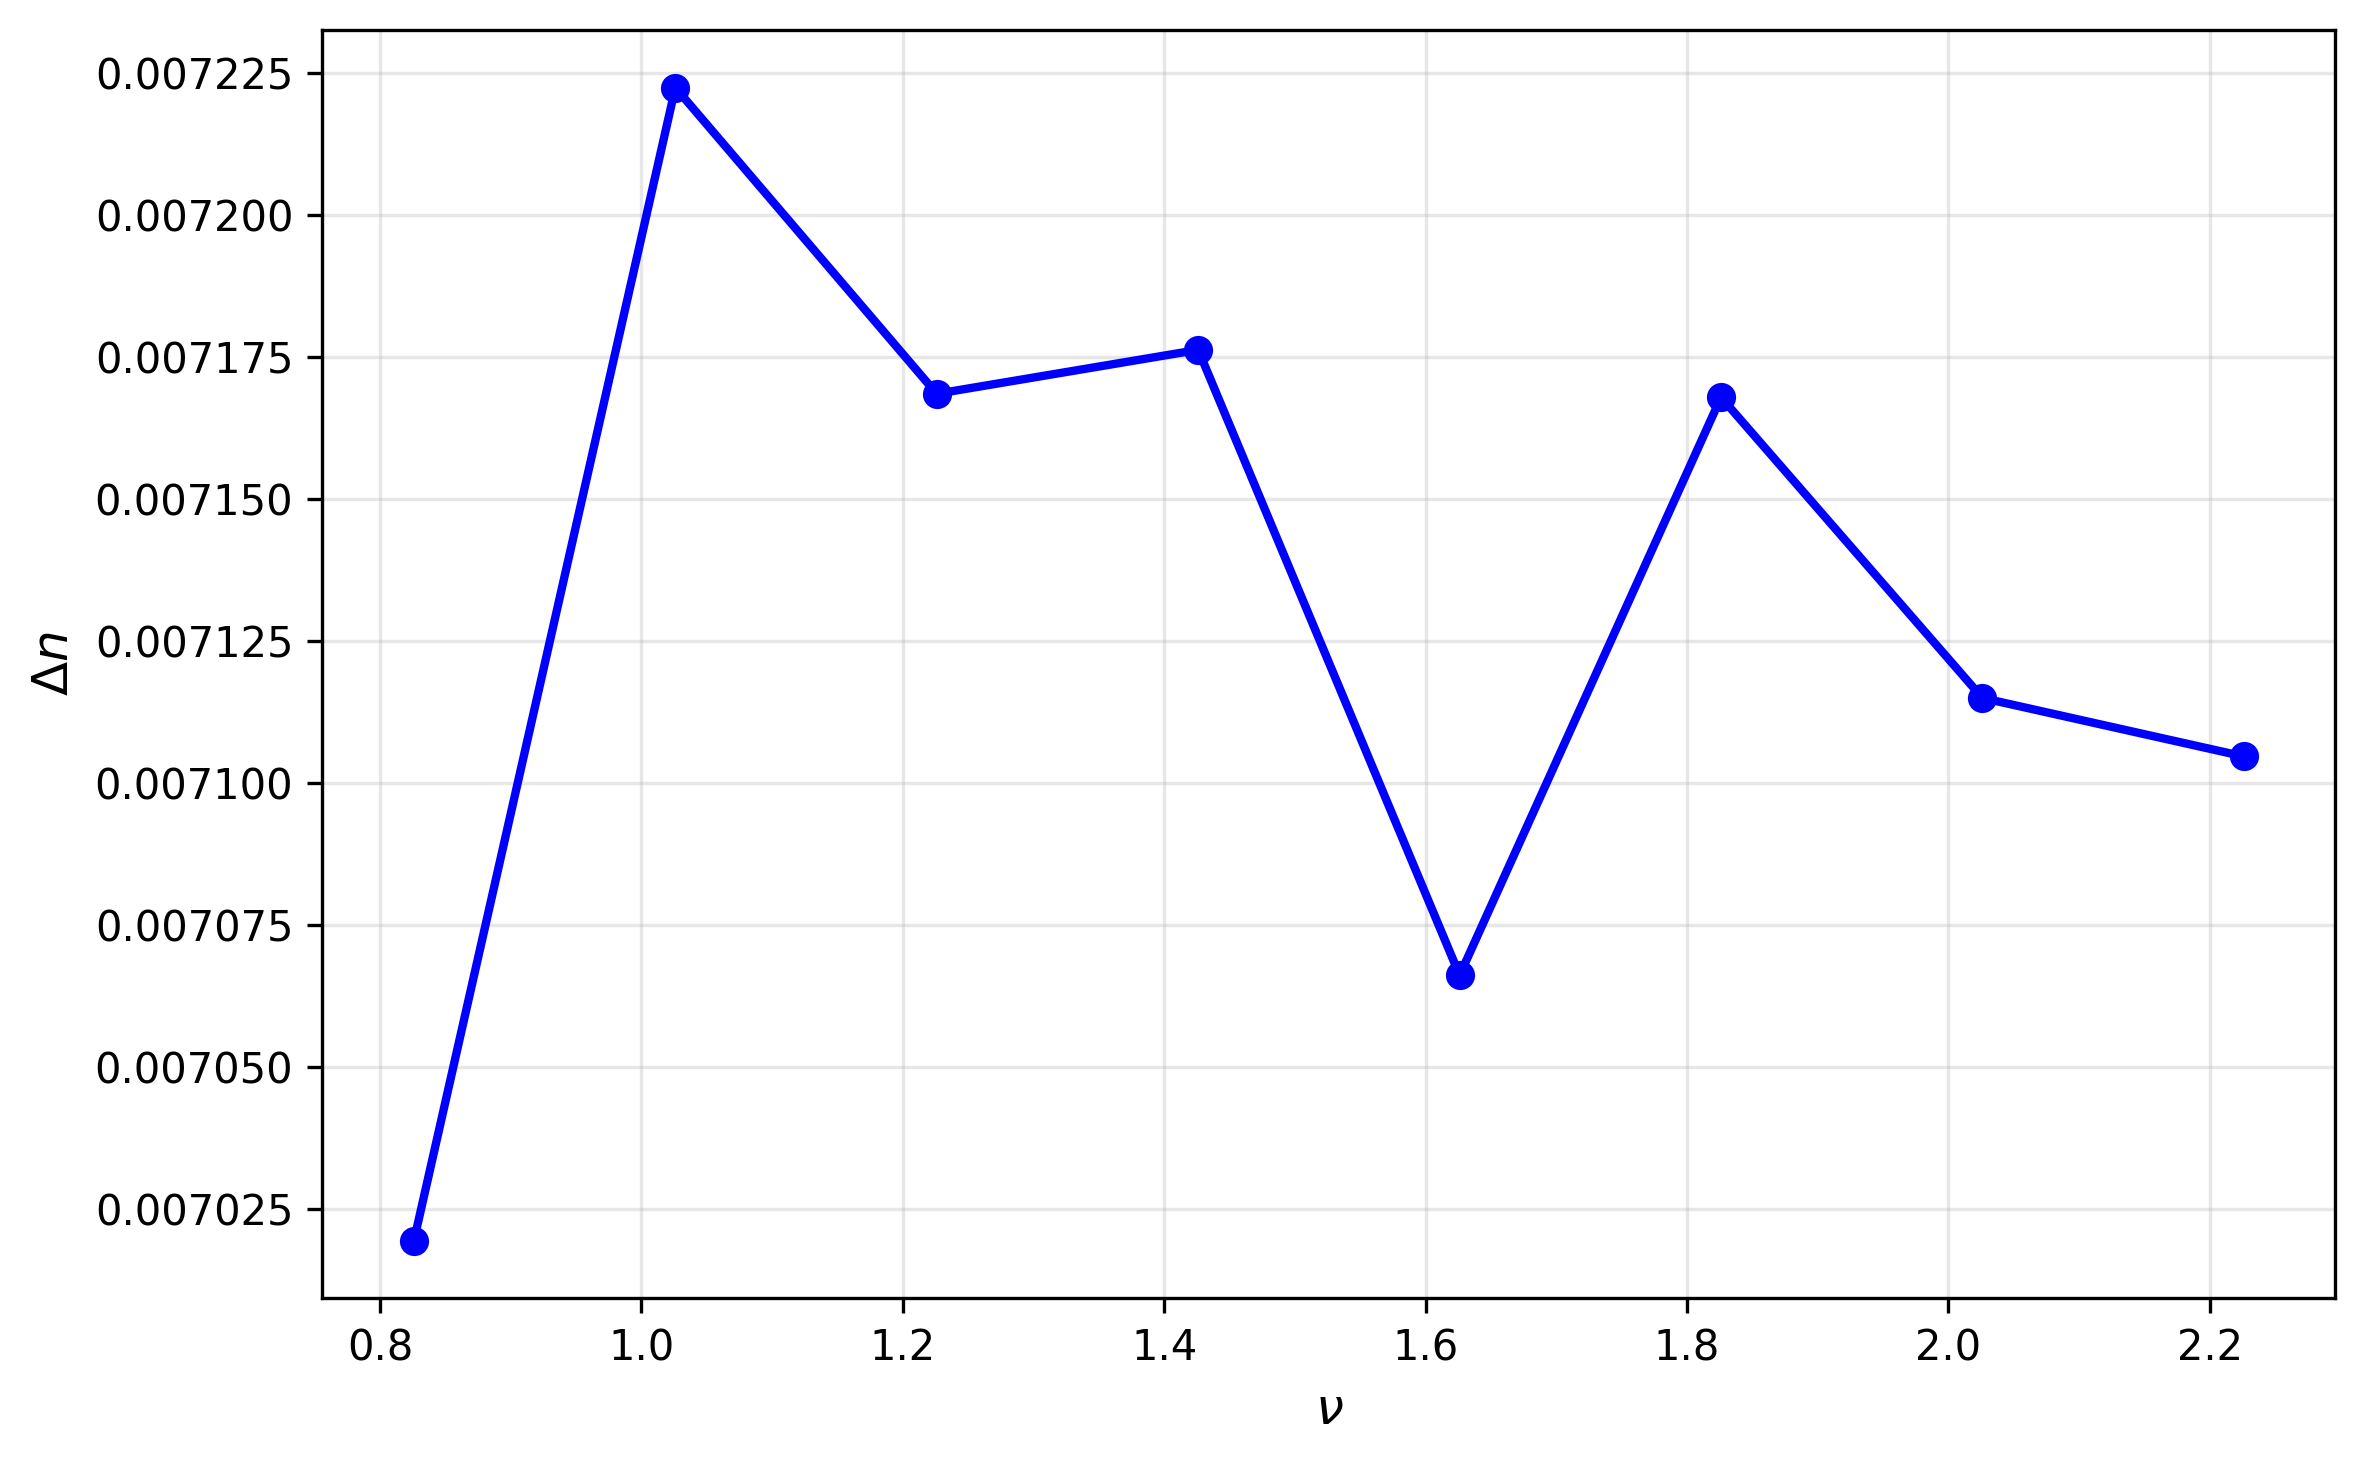
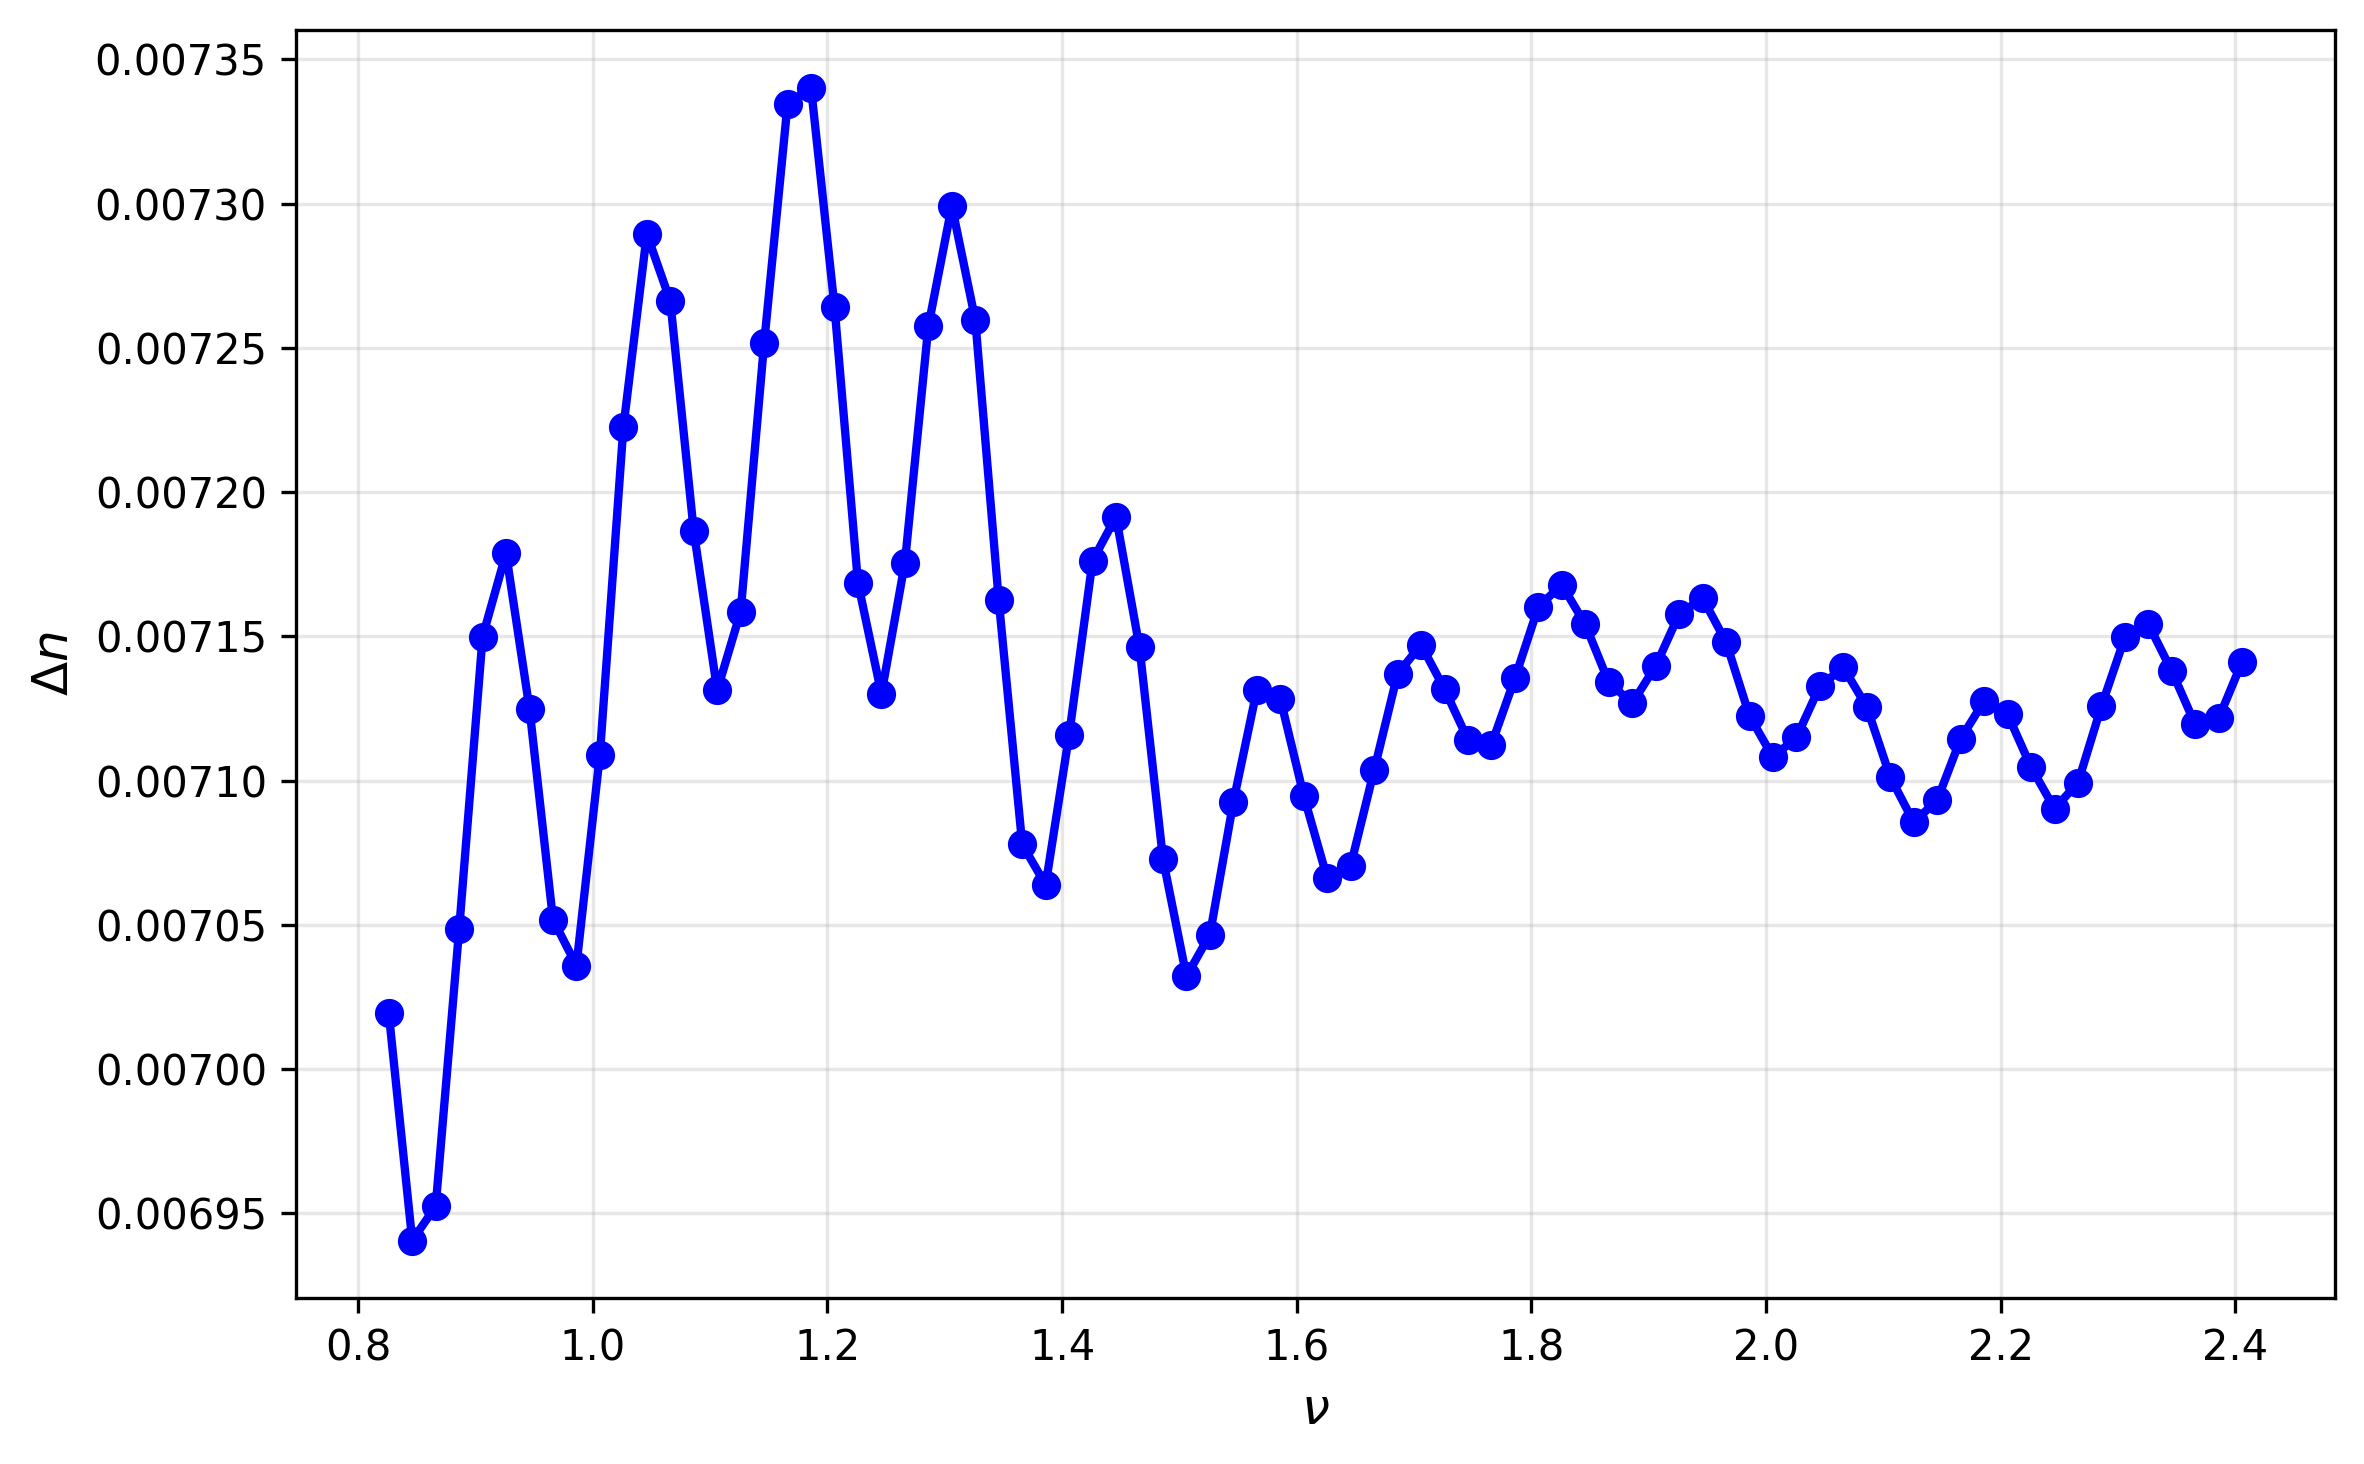
Increased larger points number for max(n)-min(n)

diff --git a/mass injection/plot_mu_time_averaged.py b/mass injection/plot_mu_time_averaged.py
@@ -49,7 +49,7 @@ def plot_mu_time_averaged_comparison():
     Plot time-averaged density profiles for a range of mu values
     """
     # Define mu values to test - constant step spacing
-    mu_values = np.arange(0.826, 2.426, 0.2)  # From 0.8 to 2.2 with step 0.2
+    mu_values = np.arange(0.826, 2.426, 0.02)  # From 0.8 to 2.2 with step 0.2
     print(mu_values)
     # This gives: [0.8, 1.0, 1.2, 1.4, 1.6, 1.8, 2.0, 2.2]
     
@@ -122,7 +122,7 @@ def plot_delta_n_vs_nu():
     Plot the differences max(n)-min(n) vs frequency nu
     """
     # Define nu values to test - constant step spacing
-    nu_values = np.arange(0.826, 2.426, 0.2)  # From 0.8 to 2.2 with step 0.2
+    nu_values = np.arange(0.826, 2.426, 0.02)  # From 0.8 to 2.2 with step 0.2
     print(f"ν values: {nu_values}")
     
     # Store results
@@ -165,6 +165,54 @@ def plot_delta_n_vs_nu():
     
     return nu_values, delta_n_values
 
+def plot_sum_n_vs_nu():
+    """
+    Plot the sum max(n)+min(n) vs frequency nu
+    """
+    # Define nu values to test - constant step spacing
+    nu_values = np.arange(0.826, 2.426, 0.02)  # From 0.8 to 2.2 with step 0.02
+    print(f"ν values: {nu_values}")
+    
+    # Store results
+    sum_n_values = []
+    
+    # Run simulations for each nu value
+    for nu in nu_values:
+        n_avg_time, t, n_t = run_simulation_for_nu(nu)
+        
+        # Calculate min, max, and sum
+        n_min = n_avg_time.min()
+        n_max = n_avg_time.max()
+        sum_n = n_max + n_min
+        sum_n_values.append(sum_n)
+        
+        print(f"[results] ν = {nu}: min = {n_min:.8f}, max = {n_max:.8f}, Σn = {sum_n:.8f}")
+    
+    # Create the plot with simpler design
+    plt.figure(figsize=(8, 5))
+    
+    # Plot sum_n vs nu with simpler styling
+    plt.plot(nu_values, sum_n_values, 'o-', linewidth=2, markersize=6, 
+             color='red')
+    
+    # Simple formatting
+    plt.xlabel('$\\nu$', fontsize=12)
+    plt.ylabel('$\\max(n) + \\min(n)$', fontsize=12)
+    plt.grid(True, alpha=0.3)
+    
+    plt.tight_layout()
+    
+    # Save the plot
+    os.makedirs("out_drift", exist_ok=True)
+    plt.savefig("out_drift/sum_n_vs_nu.png", dpi=300, bbox_inches='tight')
+    plt.savefig("out_drift/sum_n_vs_nu.pdf", dpi=300, bbox_inches='tight')
+    plt.show()
+    
+    print(f"\n[plot] Saved: out_drift/sum_n_vs_nu.png")
+    print(f"[plot] Saved: out_drift/sum_n_vs_nu.pdf")
+    
+    return nu_values, sum_n_values
+
 def run_simulation_for_nu(nu_value, tag=""):
     """
     Run simulation for a specific nu value and return time-averaged density profile
@@ -201,8 +249,8 @@ def run_simulation_for_nu(nu_value, tag=""):
 if __name__ == "__main__":
     print("=" * 70)
     print("Density Analysis vs Frequency")
-    nu_test_values = np.arange(0.826, 2.426, 0.2)
-    print(f"ν values (constant step Δν=0.2): {nu_test_values}")
+    nu_test_values = np.arange(0.826, 2.426, 0.02)
+    print(f"ν values (constant step Δν=0.02): {nu_test_values}")
     print("=" * 70)
     
     # Plot delta_n vs nu
@@ -213,6 +261,16 @@ if __name__ == "__main__":
     print("Summary of Δn vs ν Results:")
     for nu, delta_n in zip(nu_values, delta_n_values):
         print(f"ν = {nu:6.3f}: Δn = {delta_n:.8f}")
+    print("=" * 70)
+    
+    # Plot sum_n vs nu
+    print("\n[MAIN] Creating max(n)+min(n) vs ν plot...")
+    nu_values_sum, sum_n_values = plot_sum_n_vs_nu()
+    
+    print("\n" + "=" * 70)
+    print("Summary of max(n)+min(n) vs ν Results:")
+    for nu, sum_n in zip(nu_values_sum, sum_n_values):
+        print(f"ν = {nu:6.3f}: max(n)+min(n) = {sum_n:.8f}")
     print("=" * 70)
     
     # Optionally also run the time-averaged comparison
